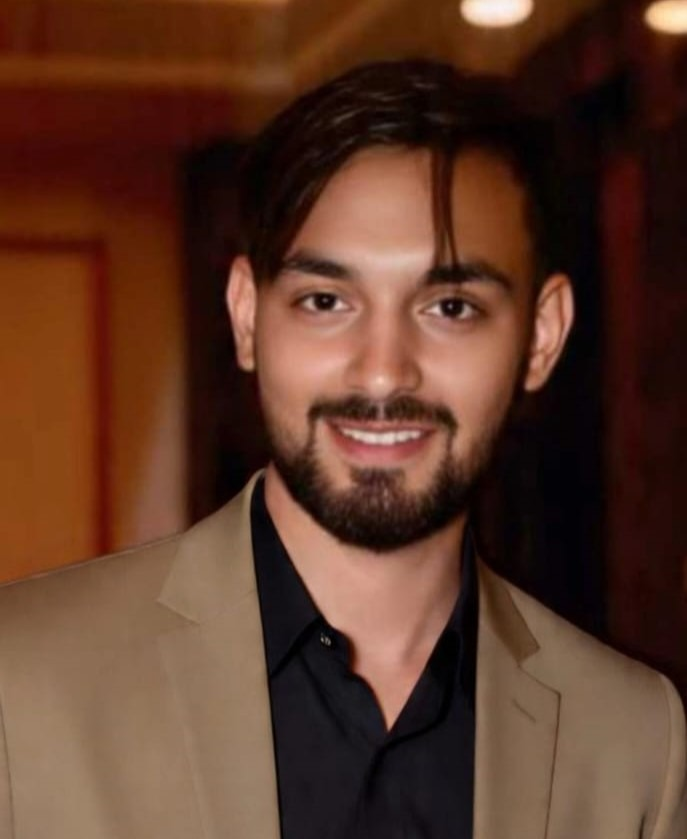
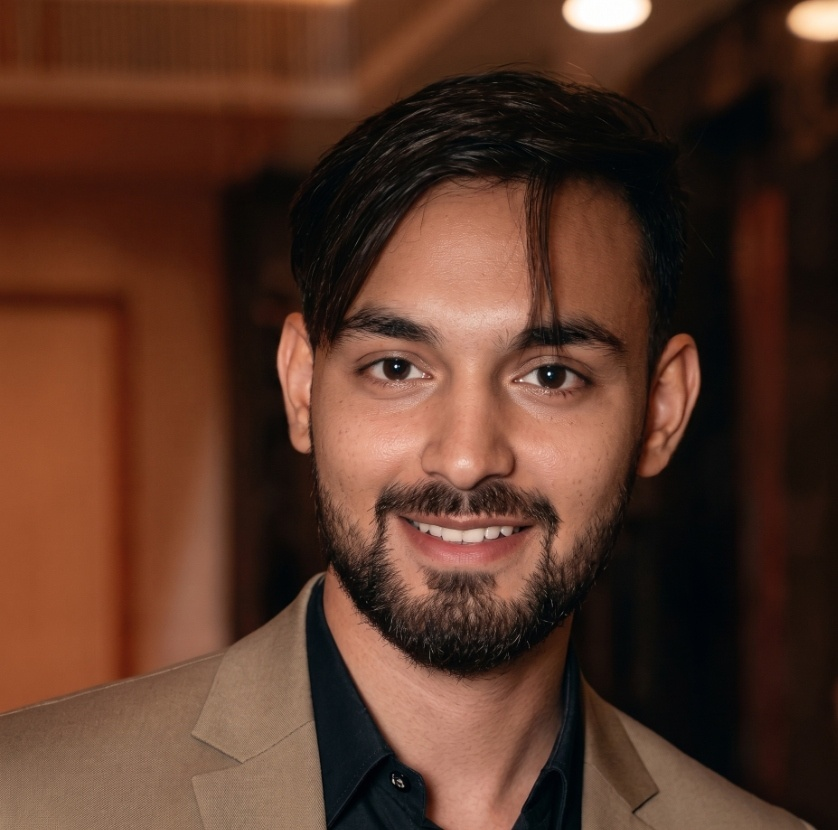
Updated project images to optimized WebP format, added FormSubmit API for contact/newsletter forms, removed coding stats, and updated profile picture

diff --git a/script.js b/script.js
@@ -549,8 +549,23 @@ document.addEventListener('DOMContentLoaded', () => {
           btnLoading.style.display = 'inline-block';
         }
 
-        // Mock ajax submission
-        setTimeout(() => {
+        // AJAX submission to FormSubmit API
+        fetch('https://formsubmit.co/ajax/[email redacted]', {
+          method: 'POST',
+          headers: {
+            'Content-Type': 'application/json',
+            'Accept': 'application/json'
+          },
+          body: JSON.stringify({
+            name: inputs.name.el.value,
+            email: inputs.email.el.value,
+            subject: inputs.subject.el.value,
+            message: inputs.message.el.value,
+            _subject: "New Portfolio Message from " + inputs.name.el.value
+          })
+        })
+        .then(response => response.json())
+        .then(data => {
           contactForm.reset();
           
           if (formSuccess) {
@@ -573,13 +588,18 @@ document.addEventListener('DOMContentLoaded', () => {
               }, 400);
             }, 6000);
           }
-
+        })
+        .catch(error => {
+          console.error('Error submitting form:', error);
+          alert('Sorry, there was an issue sending your message. Please try again directly at [email redacted].');
+        })
+        .finally(() => {
           if (formSubmitBtn && btnText && btnLoading) {
             formSubmitBtn.disabled = false;
             btnText.style.display = 'inline-block';
             btnLoading.style.display = 'none';
           }
-        }, 1500);
+        });
       }
     });
   }
@@ -600,17 +620,33 @@ document.addEventListener('DOMContentLoaded', () => {
         const submitBtn = newsletterForm.querySelector('button[type="submit"]');
         if (submitBtn) submitBtn.disabled = true;
         
-        setTimeout(() => {
+        // AJAX submission to FormSubmit for updates
+        fetch('https://formsubmit.co/ajax/[email redacted]', {
+          method: 'POST',
+          headers: {
+            'Content-Type': 'application/json',
+            'Accept': 'application/json'
+          },
+          body: JSON.stringify({
+            email: emailVal,
+            _subject: "New Newsletter Subscription: " + emailVal
+          })
+        })
+        .then(() => {
           newsletterEmail.value = '';
-          if (submitBtn) submitBtn.disabled = false;
-          
           if (newsletterSuccess) {
             newsletterSuccess.style.display = 'block';
             setTimeout(() => {
               newsletterSuccess.style.display = 'none';
             }, 4000);
           }
-        }, 1000);
+        })
+        .catch(error => {
+          console.error('Error subscribing:', error);
+        })
+        .finally(() => {
+          if (submitBtn) submitBtn.disabled = false;
+        });
       } else {
         newsletterEmail.style.borderColor = 'var(--danger)';
       }

diff --git a/index.html b/index.html
@@ -504,7 +504,7 @@
         <!-- Project 1: Clara Med -->
         <article class="project-card" data-project-category="fullstack" data-tilt data-aos="fade-up" data-aos-delay="50">
           <div class="project-image">
-            <img src="images/clara_med.png" alt="Clara Med - Healthcare Management System" loading="lazy" />
+            <img src="images/clara_med.webp" alt="Clara Med - Healthcare Management System" loading="lazy" />
             <div class="project-overlay">
               <div class="project-overlay-btns">
                 <a href="https://claramedfullstack-frontend.onrender.com/" target="_blank" rel="noopener" class="btn btn-primary btn-sm" aria-label="View Demo"><i class="fas fa-external-link-alt"></i> Live Demo</a>
@@ -537,7 +537,7 @@
         <!-- Project 2: Growing India -->
         <article class="project-card" data-project-category="fullstack" data-tilt data-aos="fade-up" data-aos-delay="100">
           <div class="project-image">
-            <img src="images/growing_india.png" alt="Growing India - Agricultural Platform" loading="lazy" />
+            <img src="images/growing_india.webp" alt="Growing India - Agricultural Platform" loading="lazy" />
             <div class="project-overlay">
               <div class="project-overlay-btns">
                 <a href="https://growing-india.online/" target="_blank" rel="noopener" class="btn btn-primary btn-sm" aria-label="View Demo"><i class="fas fa-external-link-alt"></i> Live Demo</a>
@@ -570,7 +570,7 @@
         <!-- Project 3: RewardIQ SaaS -->
         <article class="project-card" data-project-category="fullstack" data-tilt data-aos="fade-up" data-aos-delay="150">
           <div class="project-image">
-            <img src="images/rewardiq.png" alt="RewardIQ SaaS Dashboard" loading="lazy" />
+            <img src="images/rewardiq.webp" alt="RewardIQ SaaS Dashboard" loading="lazy" />
             <div class="project-overlay">
               <div class="project-overlay-btns">
                 <a href="https://github.com/Raunakmishra123/rewardiq" target="_blank" rel="noopener" class="btn btn-outline btn-sm" aria-label="View Code"><i class="fab fa-github"></i> Code</a>
@@ -601,7 +601,7 @@
         <!-- Project 4: AI Chatbot Currency Exchange -->
         <article class="project-card" data-project-category="frontend" data-tilt data-aos="fade-up" data-aos-delay="200">
           <div class="project-image">
-            <img src="images/ai_chatbot.png" alt="AI Chatbot Dashboard" loading="lazy" />
+            <img src="images/ai_chatbot.webp" alt="AI Chatbot Dashboard" loading="lazy" />
             <div class="project-overlay">
               <div class="project-overlay-btns">
                 <a href="https://github.com/Raunakmishra123/AI-CHATBOAT-CURRENCY-EXCHANGE" target="_blank" rel="noopener" class="btn btn-outline btn-sm" aria-label="View Code"><i class="fab fa-github"></i> Code</a>
@@ -632,7 +632,7 @@
         <!-- Project 5: Stock Market Dashboard -->
         <article class="project-card" data-project-category="frontend" data-tilt data-aos="fade-up" data-aos-delay="250">
           <div class="project-image">
-            <img src="images/stock_market.png" alt="Stock Market Dashboard" loading="lazy" />
+            <img src="images/stock_market.webp" alt="Stock Market Dashboard" loading="lazy" />
             <div class="project-overlay">
               <div class="project-overlay-btns">
                 <a href="https://github.com/Raunakmishra123/Stock-Market-Dashboard-" target="_blank" rel="noopener" class="btn btn-outline btn-sm" aria-label="View Code"><i class="fab fa-github"></i> Code</a>
@@ -663,7 +663,7 @@
         <!-- Project 6: grocery_store -->
         <article class="project-card" data-project-category="fullstack" data-tilt data-aos="fade-up" data-aos-delay="300">
           <div class="project-image">
-            <img src="images/grocery_store.png" alt="Grocery Store Catalog Dashboard" loading="lazy" />
+            <img src="images/grocery_store.webp" alt="Grocery Store Catalog Dashboard" loading="lazy" />
             <div class="project-overlay">
               <div class="project-overlay-btns">
                 <a href="https://github.com/Raunakmishra123/grocery_store" target="_blank" rel="noopener" class="btn btn-outline btn-sm" aria-label="View Code"><i class="fab fa-github"></i> Code</a>
@@ -694,7 +694,7 @@
         <!-- Project 7: Cognizant Java FSE -->
         <article class="project-card" data-project-category="fullstack" data-tilt data-aos="fade-up" data-aos-delay="350">
           <div class="project-image">
-            <img src="images/java_fse.png" alt="Java Full Stack Backend Developer logs" loading="lazy" />
+            <img src="images/java_fse.webp" alt="Java Full Stack Backend Developer logs" loading="lazy" />
             <div class="project-overlay">
               <div class="project-overlay-btns">
                 <a href="https://github.com/Raunakmishra123/Congnizant-Java-FSE" target="_blank" rel="noopener" class="btn btn-outline btn-sm" aria-label="View Code"><i class="fab fa-github"></i> Code</a>
@@ -725,7 +725,7 @@
         <!-- Project 8: PHP MVC Framework -->
         <article class="project-card" data-project-category="fullstack" data-tilt data-aos="fade-up" data-aos-delay="400">
           <div class="project-image">
-            <img src="images/php_mvc.png" alt="PHP MVC Framework architectural diagram" loading="lazy" />
+            <img src="images/php_mvc.webp" alt="PHP MVC Framework architectural diagram" loading="lazy" />
             <div class="project-overlay">
               <div class="project-overlay-btns">
                 <a href="https://github.com/Raunakmishra123/mvc" target="_blank" rel="noopener" class="btn btn-outline btn-sm" aria-label="View Code"><i class="fab fa-github"></i> Code</a>
@@ -756,7 +756,7 @@
         <!-- Project 9: 100 Days of C++ -->
         <article class="project-card" data-project-category="frontend" data-tilt data-aos="fade-up" data-aos-delay="450">
           <div class="project-image">
-            <img src="images/cpp_dsa.png" alt="C++ Optimized Data Structures Code Screen" loading="lazy" />
+            <img src="images/cpp_dsa.webp" alt="C++ Optimized Data Structures Code Screen" loading="lazy" />
             <div class="project-overlay">
               <div class="project-overlay-btns">
                 <a href="https://github.com/Raunakmishra123/100-days-of-cpp" target="_blank" rel="noopener" class="btn btn-outline btn-sm" aria-label="View Code"><i class="fab fa-github"></i> Code</a>
@@ -787,7 +787,7 @@
         <!-- Project 10: Water Wastage Platform -->
         <article class="project-card" data-project-category="frontend" data-tilt data-aos="fade-up" data-aos-delay="500">
           <div class="project-image">
-            <img src="images/water_wastage.png" alt="Ecological dashboard showing global water conservation stats" loading="lazy" />
+            <img src="images/water_wastage.webp" alt="Ecological dashboard showing global water conservation stats" loading="lazy" />
             <div class="project-overlay">
               <div class="project-overlay-btns">
                 <a href="https://github.com/Raunakmishra123/Water-wastage-" target="_blank" rel="noopener" class="btn btn-outline btn-sm" aria-label="View Code"><i class="fab fa-github"></i> Code</a>
@@ -818,7 +818,7 @@
         <!-- Project 11: Premium CSS Tic-Tac-Toe -->
         <article class="project-card" data-project-category="frontend" data-tilt data-aos="fade-up" data-aos-delay="550">
           <div class="project-image">
-            <img src="images/tictactoe.png" alt="Futuristic neon glowing Tic-Tac-Toe game board" loading="lazy" />
+            <img src="images/tictactoe.webp" alt="Futuristic neon glowing Tic-Tac-Toe game board" loading="lazy" />
             <div class="project-overlay">
               <div class="project-overlay-btns">
                 <a href="https://github.com/Raunakmishra123/tic-tac-toe" target="_blank" rel="noopener" class="btn btn-outline btn-sm" aria-label="View Code"><i class="fab fa-github"></i> Code</a>
@@ -849,7 +849,7 @@
         <!-- Project 12: Summer PEP 2026 Training -->
         <article class="project-card" data-project-category="frontend" data-tilt data-aos="fade-up" data-aos-delay="600">
           <div class="project-image">
-            <img src="images/summer_pep.png" alt="Student dashboard showing programming training progress" loading="lazy" />
+            <img src="images/summer_pep.webp" alt="Student dashboard showing programming training progress" loading="lazy" />
             <div class="project-overlay">
               <div class="project-overlay-btns">
                 <a href="https://github.com/Raunakmishra123/SUMMER-PEP-2026" target="_blank" rel="noopener" class="btn btn-outline btn-sm" aria-label="View Code"><i class="fab fa-github"></i> Code</a>
@@ -1689,18 +1689,7 @@
         </div>
       </div>
 
-      <!-- Coding Stats Section -->
-      <div class="github-stats-section" data-aos="fade-up" data-aos-delay="200">
-        <h3 class="github-stats-title"><i class="fas fa-terminal"></i> Coding Profiles &amp; Stats</h3>
-        <div class="github-stats-grid" style="display: grid; grid-template-columns: repeat(2, 1fr); gap: 2rem; margin-top: 1.5rem;">
-          <div class="github-stat-card" style="display: flex; justify-content: center;">
-            <img src="https://github-readme-stats.vercel.app/api?username=Raunakmishra123&show_icons=true&theme=tokyonight&hide_border=true&bg_color=111827&title_color=2563EB&text_color=F8FAFC&icon_color=7C3AED" alt="GitHub Stats" loading="lazy" style="width: 100%; max-width: 450px;" />
-          </div>
-          <div class="github-stat-card" style="display: flex; justify-content: center;">
-            <img src="https://github-readme-stats.vercel.app/api/top-langs/?username=Raunakmishra123&layout=compact&theme=tokyonight&hide_border=true&bg_color=111827&title_color=2563EB&text_color=F8FAFC" alt="Top Languages" loading="lazy" style="width: 100%; max-width: 450px;" />
-          </div>
-        </div>
-      </div>
+
     </div>
   </section>
 